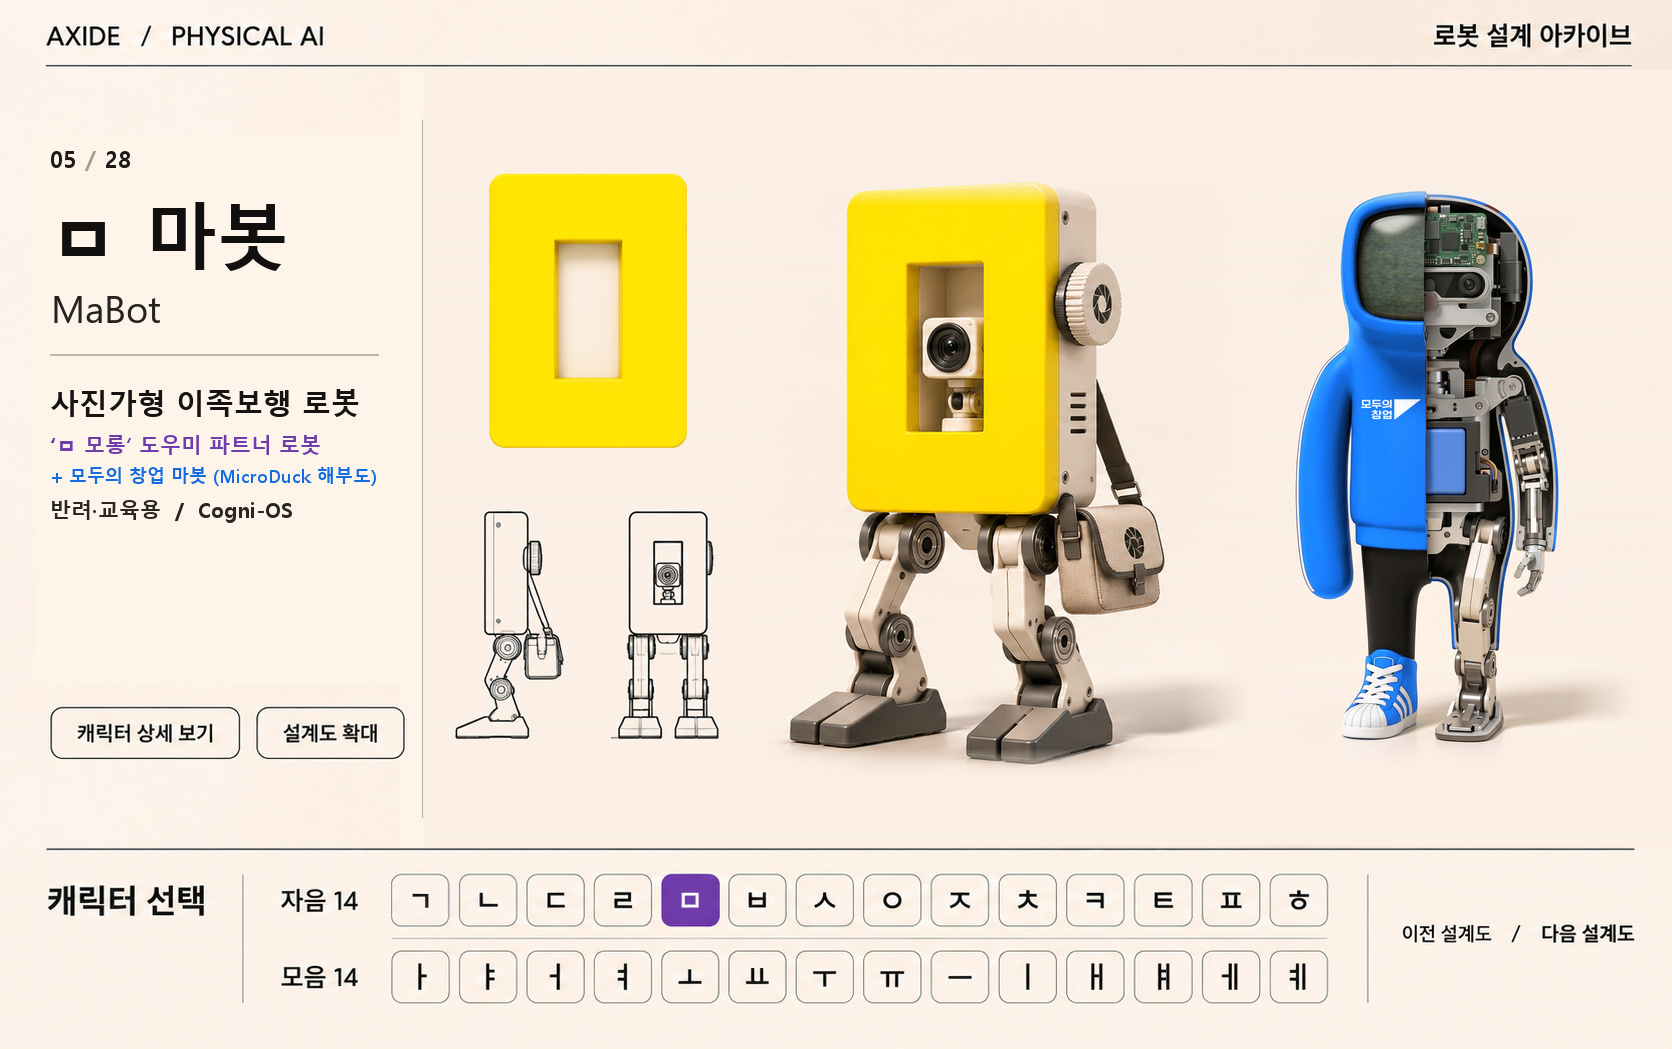
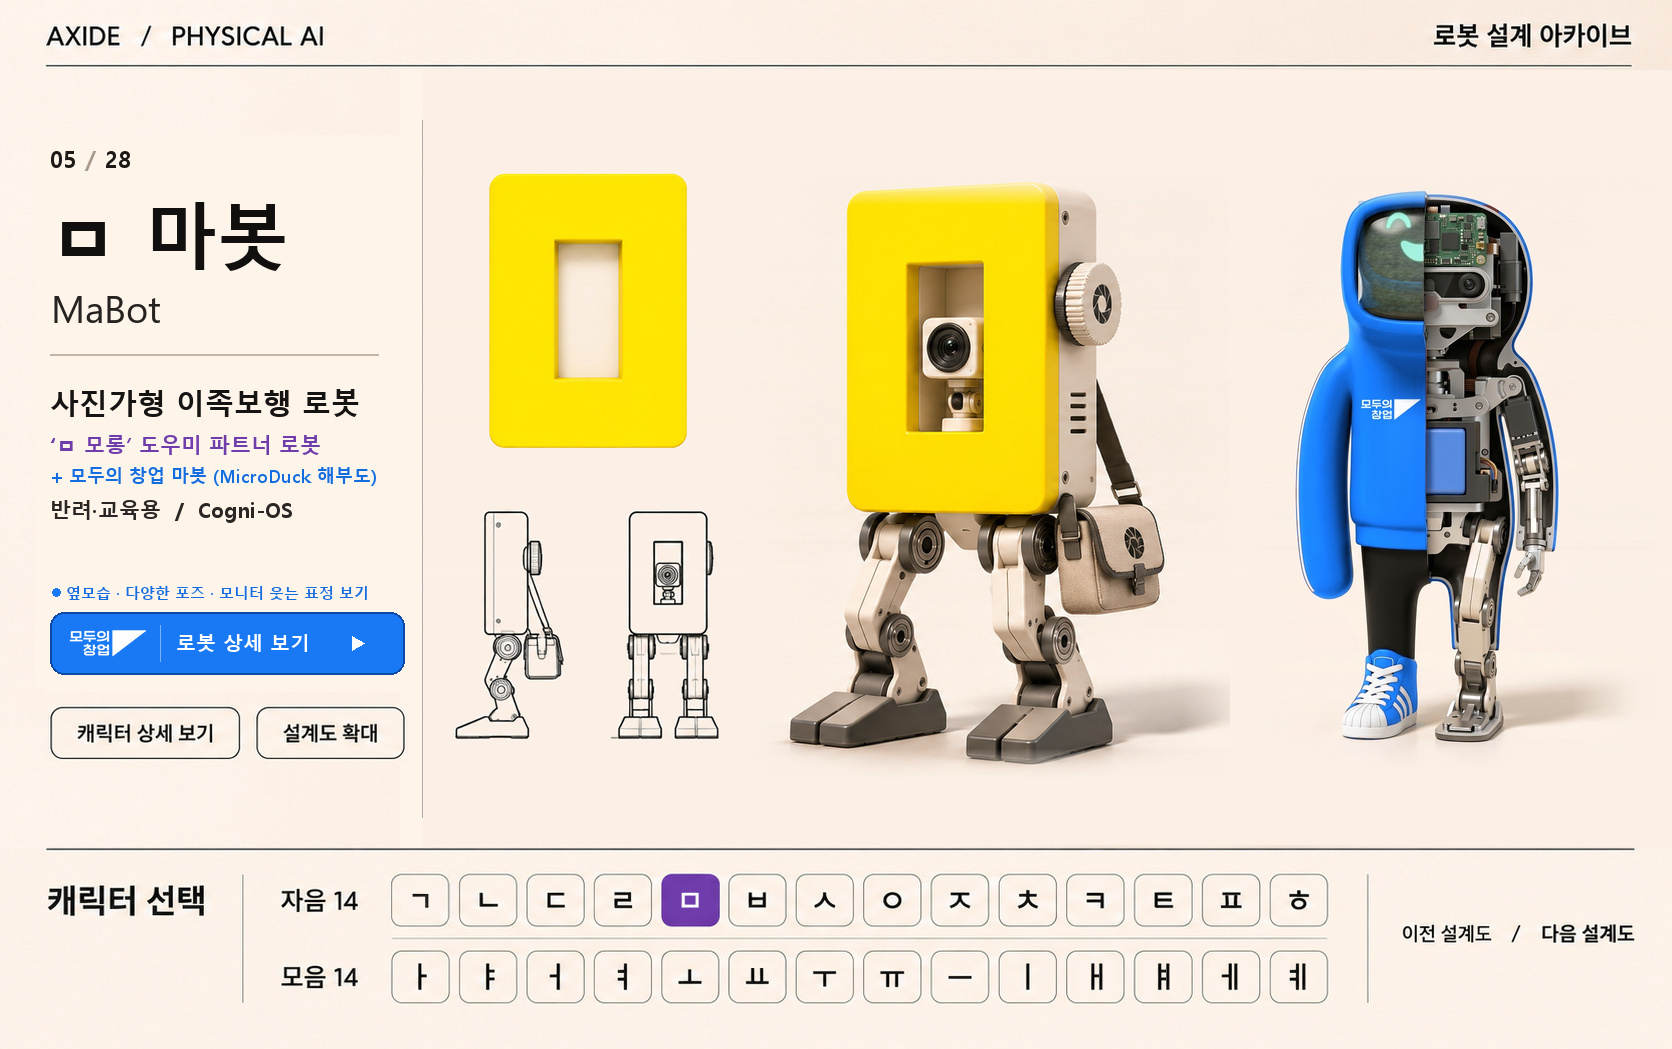
Add Startup-for-All (모두의 창업) robot detail button and 6-pose turnaround/smiling-monitor sheet to ㅁ 마봇

Changed region(s): [[0.0311, 0.5491, 0.2488, 0.6406], [0.8086, 0.183, 0.8708, 0.3051]]

diff --git a/story.html b/story.html
@@ -393,7 +393,7 @@
 
                         <!-- Physical AI 28-Jamo Bipedal Partner Robot Archive Interactive Board (가봇 ~ 예봇, C:\Project\myhistory\AXIDE_한글_테마로봇_28장) -->
                         <div id="somooBpShowcaseWrap" class="mt-3 position-relative rounded-4 overflow-hidden" style="border: 1.5px solid rgba(251, 191, 36, 0.48); background: #FDF3E8; box-shadow: 0 20px 48px rgba(2, 6, 23, 0.65);">
-                            <img id="somooBpShowcaseImg" src="assets/images/somoo-jamo-robot/jr_01.jpg?v=20261107_jambot_v8" alt="AXIDE / PHYSICAL AI 로봇 설계 아카이브 — 01/28 ㄱ 가봇(GaBot) · ‘ㄱ 고롱’ 도우미 파트너 발명가형 이족보행 로봇" style="width: 100%; height: auto; display: block;" decoding="async">
+                            <img id="somooBpShowcaseImg" src="assets/images/somoo-jamo-robot/jr_01.jpg?v=20261107_jambot_v9" alt="AXIDE / PHYSICAL AI 로봇 설계 아카이브 — 01/28 ㄱ 가봇(GaBot) · ‘ㄱ 고롱’ 도우미 파트너 발명가형 이족보행 로봇" style="width: 100%; height: auto; display: block;" decoding="async">
                             <!-- Interactive Hotspots: Upper Robot Lightbox, [캐릭터 상세 보기], [설계도 확대], 28 Jamo Selector (ㄱ~ㅎ, ㅏ~ㅖ), [이전 설계도 / 다음 설계도] -->
                             <div id="somooBpBoardHotspots" style="position: absolute; inset: 0; pointer-events: none;"></div>
                         </div>
@@ -2953,7 +2953,7 @@
                                         <button type="button" id="somooModalBlueprintBtn" onclick="openStoryLightbox('assets/images/somoo-blueprint/bp_01.jpg?v=20261107_mainbp_v6', '한글 소모오 피지컬 AI — 01/28 ‘ㄱ 고롱(GoLong) · 발명가’ 마이크로덕형 14-DOF 메인 로봇 설계도', false)" class="btn btn-sm rounded-pill px-3 py-1 fw-bold" style="background: rgba(45, 212, 191, 0.2); color: #99f6e4; border: 1px solid rgba(45, 212, 191, 0.55); font-size: 11.5px;">
                                             📐 ‘ㄱ 고롱’ 메인 로봇 설계도 보기
                                         </button>
-                                        <button type="button" id="somooModalJamoBotBtn" onclick="openStoryLightbox('assets/images/somoo-jamo-robot/jr_01.jpg?v=20261107_jambot_v8', 'AXIDE / PHYSICAL AI 자모 파트너 로봇 — 01/28 ‘ㄱ 가봇(GaBot)’ (‘ㄱ 고롱’ 도우미 파트너 로봇)', false)" class="btn btn-sm rounded-pill px-3 py-1 fw-bold" style="background: rgba(139, 92, 246, 0.22); color: #ddd6fe; border: 1px solid rgba(167, 139, 250, 0.55); font-size: 11.5px;">
+                                        <button type="button" id="somooModalJamoBotBtn" onclick="openStoryLightbox('assets/images/somoo-jamo-robot/jr_01.jpg?v=20261107_jambot_v9', 'AXIDE / PHYSICAL AI 자모 파트너 로봇 — 01/28 ‘ㄱ 가봇(GaBot)’ (‘ㄱ 고롱’ 도우미 파트너 로봇)', false)" class="btn btn-sm rounded-pill px-3 py-1 fw-bold" style="background: rgba(139, 92, 246, 0.22); color: #ddd6fe; border: 1px solid rgba(167, 139, 250, 0.55); font-size: 11.5px;">
                                             🤖 ‘ㄱ 가봇’ 자모 파트너 로봇 보기
                                         </button>
                                     </div>
@@ -3493,7 +3493,7 @@
             }
             // Hangul Jamo Bipedal Partner Robot Archive Board (ㄱ 가봇 ~ ㅖ 예봇)
             function getJamoPartnerRobotUrl(idx) {
-                return 'assets/images/somoo-jamo-robot/jr_' + pad2(idx + 1) + '.jpg?v=20261107_jambot_v8';
+                return 'assets/images/somoo-jamo-robot/jr_' + pad2(idx + 1) + '.jpg?v=20261107_jambot_v9';
             }
 
             var currentBpShowcaseIdx = 0;
@@ -3549,6 +3549,10 @@
                 var jamoBtns = document.querySelectorAll('#somooBpBoardHotspots .somoo-bp-jamo-btn');
                 jamoBtns.forEach(function(btn, bIdx) {
                     btn.setAttribute('aria-pressed', bIdx === idx ? 'true' : 'false');
+                });
+                var moduHotspots = document.querySelectorAll('#somooBpBoardHotspots .somoo-bp-modu-hotspot');
+                moduHotspots.forEach(function(el) {
+                    el.style.display = (idx === 4) ? 'block' : 'none';
                 });
             };
 
@@ -3695,7 +3699,7 @@
                 });
             };
 
-            window.openSomooCharacterModal = function(idx) {
+            window.openSomooCharacterModal = function(idx, focusMode) {
                 hideSomooHoverTooltip();
                 var c = SOMOO_CHARACTERS[idx];
                 if (!c || !modalEl) return;
@@ -3804,6 +3808,20 @@
                     thumbTagBg: '#6f3cab',
                     thumbTagColor: '#ffffff'
                 });
+                // Special Edition for idx === 4 (ㅁ 마봇): '모두의 창업' 스페셜 로봇 턴어라운드·포즈·웃는 모니터 표정 상세 도감
+                var moduSheetUrl = 'assets/images/somoo-jamo-robot/modu_startup_robot_sheet.jpg?v=20261107_modu_v1';
+                var moduSheetTitle = '‘모두의 창업’ 스페셜 로봇 상세 도감 — 90° 정밀 옆모습 · 다양한 액션 포즈 · CRT 모니터 웃는 표정 & MicroDuck 절반 해부도';
+                var moduSheetShort = '모두의 창업 로봇 상세 도감 (옆모습 · 포즈 · 웃는 모니터 표정)';
+                if (idx === 4) {
+                    allImages.push({
+                        file: moduSheetUrl,
+                        title: moduSheetTitle,
+                        shortLabel: moduSheetShort,
+                        thumbTag: '모두의 창업',
+                        thumbTagBg: '#1979f4',
+                        thumbTagColor: '#ffffff'
+                    });
+                }
                 for (var bi = 1; bi < baseImages.length; bi++) {
                     allImages.push({
                         file: baseImages[bi].file,
@@ -3819,7 +3837,7 @@
                     thumbTagBg: '#fbbf24',
                     thumbTagColor: '#0f172a'
                 });
-                document.getElementById('somooModalGalleryCount').textContent = 'PDF 원본 ' + baseImages.length + '장 + 메인 로봇 설계도 1장 + 자모 파트너 로봇 1장 + 3D 한글 블록 1장';
+                document.getElementById('somooModalGalleryCount').textContent = 'PDF 원본 ' + baseImages.length + '장 + 메인 로봇 설계도 1장 + 자모 파트너 로봇 ' + (idx === 4 ? '2장(모두의 창업 포함)' : '1장') + ' + 3D 한글 블록 1장';
 
                 // Populate Thumbnails
                 var thumbStrip = document.getElementById('somooModalThumbStrip');
@@ -3844,8 +3862,10 @@
                     thumbStrip.appendChild(btn);
                 });
 
-                // Set first image (Representative 3D Portrait) as main image
-                if (allImages.length > 0) {
+                // Set initial main image (or '모두의 창업' robot sheet when focusMode === 'modu_startup')
+                if (focusMode === 'modu_startup' && idx === 4) {
+                    setSomooModalMainImage(moduSheetUrl, moduSheetTitle, 'ㅁ 마봇 (모두의 창업 스페셜 에디션)', moduSheetShort);
+                } else if (allImages.length > 0) {
                     setSomooModalMainImage(allImages[0].file, allImages[0].title, c.jamo + ' ' + c.name + '(' + c.eng + ')', allImages[0].shortLabel);
                 }
 
@@ -4091,6 +4111,41 @@
                         openCurrentBpLightbox();
                     });
                     bpBoardHotspots.appendChild(zoomBtn);
+
+                    // Special Hotspots on 05/28 'ㅁ 마봇' (currentBpShowcaseIdx === 4):
+                    // (a) Left Royal Blue Button [모두의 창업 | 로봇 상세 보기 ▶] (x=50..404, y=580..678)
+                    var moduLeftBtn = document.createElement('button');
+                    moduLeftBtn.type = 'button';
+                    moduLeftBtn.className = 'somoo-bp-hotspot-btn somoo-bp-modu-hotspot';
+                    moduLeftBtn.style.left = '2.99%';
+                    moduLeftBtn.style.top = '55.29%';
+                    moduLeftBtn.style.width = '21.17%';
+                    moduLeftBtn.style.height = '9.34%';
+                    moduLeftBtn.style.display = (currentBpShowcaseIdx === 4) ? 'block' : 'none';
+                    moduLeftBtn.title = '클릭하여 ‘모두의 창업’ 로봇 상세 보기 (옆모습 · 다양한 포즈 · 모니터 웃는 표정 도감)';
+                    moduLeftBtn.setAttribute('aria-label', '모두의 창업 로봇 상세 보기 (옆모습 · 다양한 포즈 · 모니터 웃는 표정)');
+                    moduLeftBtn.addEventListener('click', function(e) {
+                        e.stopPropagation();
+                        openSomooCharacterModal(4, 'modu_startup');
+                    });
+                    bpBoardHotspots.appendChild(moduLeftBtn);
+
+                    // (b) Right 3D '모두의 창업' Cutaway Robot Figure (x=1240..1650, y=170..790)
+                    var moduRightFigBtn = document.createElement('button');
+                    moduRightFigBtn.type = 'button';
+                    moduRightFigBtn.className = 'somoo-bp-hotspot-btn somoo-bp-modu-hotspot';
+                    moduRightFigBtn.style.left = '74.16%';
+                    moduRightFigBtn.style.top = '16.20%';
+                    moduRightFigBtn.style.width = '24.52%';
+                    moduRightFigBtn.style.height = '59.10%';
+                    moduRightFigBtn.style.display = (currentBpShowcaseIdx === 4) ? 'block' : 'none';
+                    moduRightFigBtn.title = '클릭하여 ‘모두의 창업’ 로봇 상세 보기 (옆모습 · 다양한 포즈 · 모니터 웃는 표정 도감)';
+                    moduRightFigBtn.setAttribute('aria-label', '모두의 창업 로봇 상세 보기');
+                    moduRightFigBtn.addEventListener('click', function(e) {
+                        e.stopPropagation();
+                        openSomooCharacterModal(4, 'modu_startup');
+                    });
+                    bpBoardHotspots.appendChild(moduRightFigBtn);
 
                     // 28 Jamo Selector Buttons (Row 0: Consonants 0..13, Row 1: Vowels 14..27)
                     var bpColRanges = [
